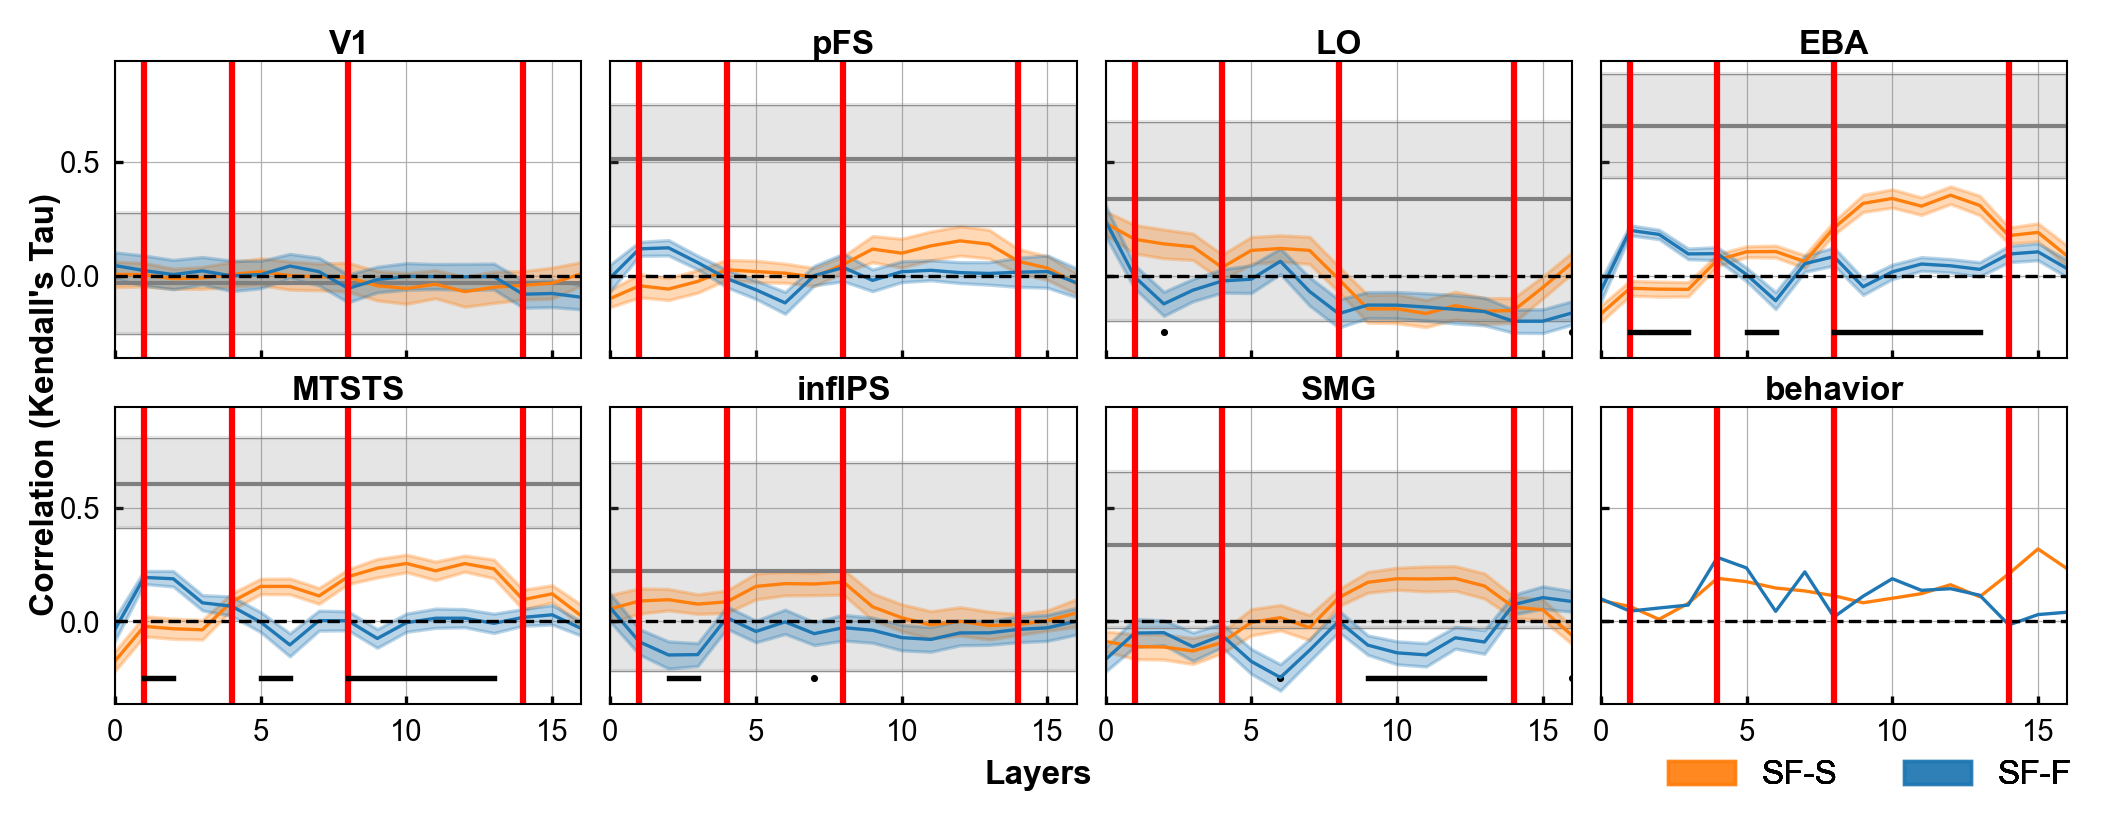
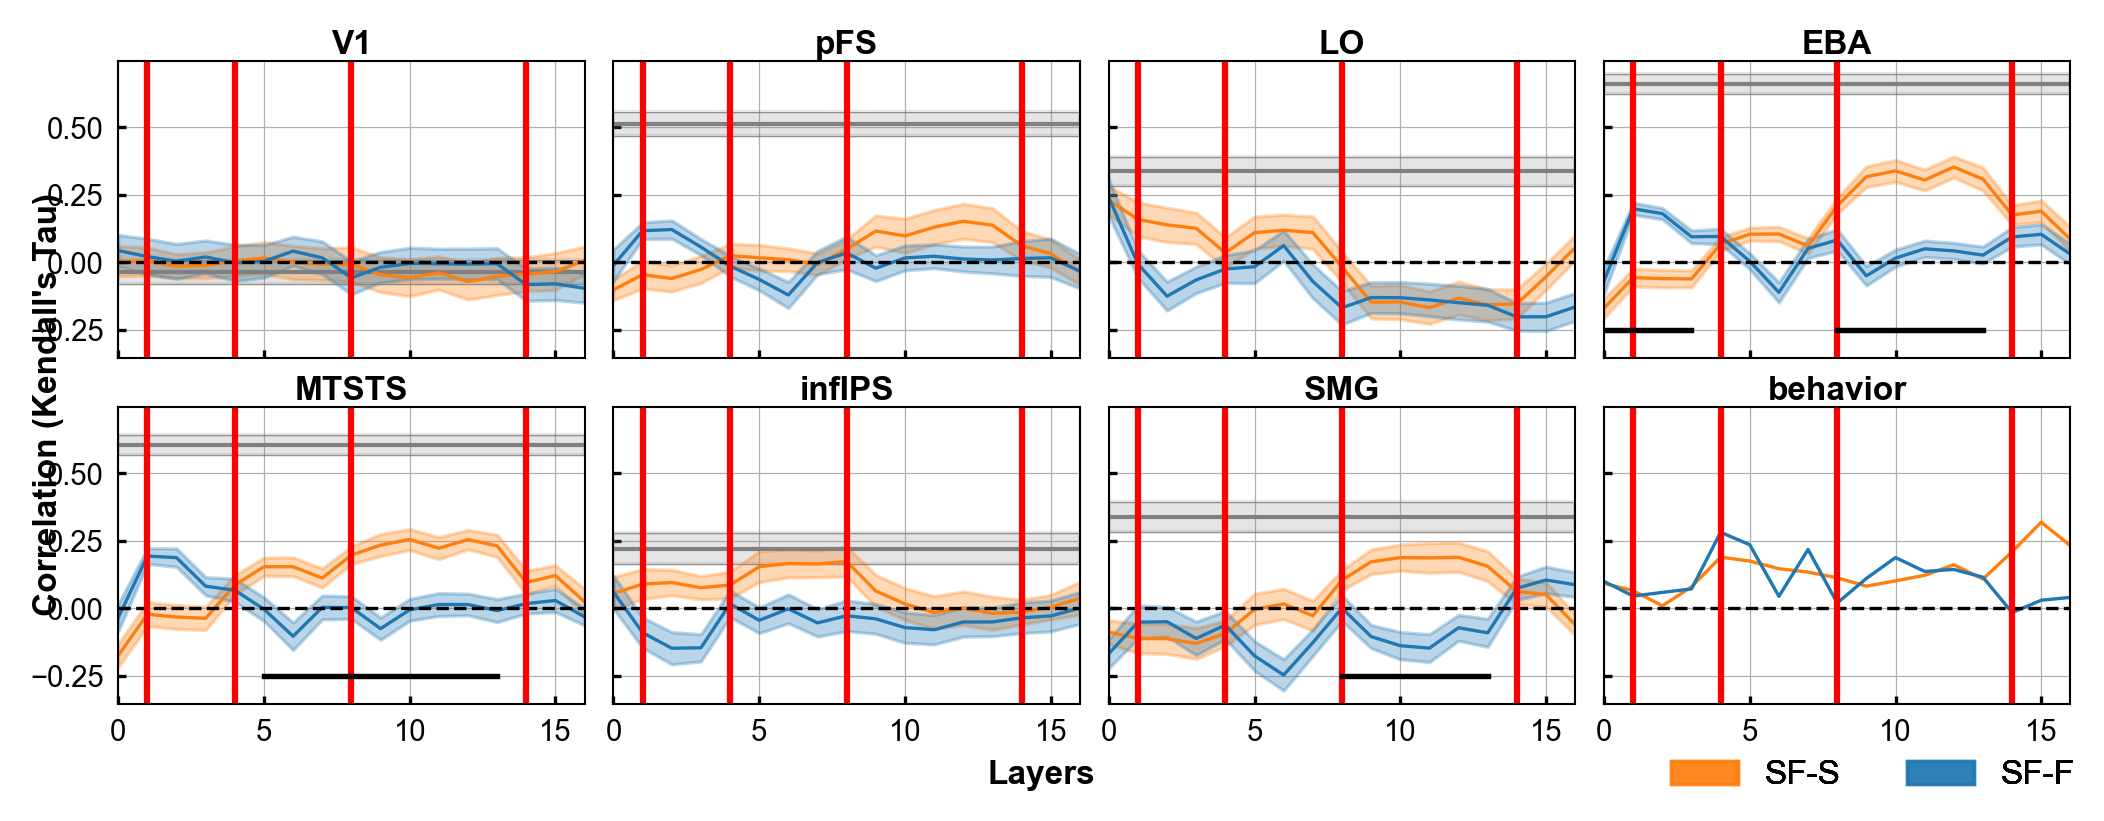
update nc and cluster permutation

diff --git a/plot_RSA_layers.py b/plot_RSA_layers.py
@@ -3,9 +3,9 @@ import pickle
 import numpy as np
 from scipy import stats
 import os
-from statsmodels.stats.multitest import multipletests
 import itertools
 from scipy.stats import kendalltau
+from mne.stats import permutation_cluster_test
 
 # Get the directory where the script is located
 script_dir = os.path.dirname(os.path.abspath(__file__))
@@ -15,34 +15,26 @@ os.chdir(script_dir)
 ROIList = ["V1", "pFS", "LO", "EBA", "MTSTS", "infIPS", "SMG", "behavior"]
 
 
-def bootstraping(data_A, data_B, num_samples=1000):
-    def my_statistic(sample1, sample2, axis=-1):
-        return np.mean(sample1, axis=axis) - np.mean(sample2, axis=axis)
+def bootstraping(data_A, data_B):
+    def my_statistic(data_A, data_B):
+        return np.mean(data_A, axis=0) - np.mean(data_B, axis=0)
 
-    p_values = []
-    for i in range(data_A.shape[1]):
-        observed_diff = my_statistic(data_A[:, i], data_B[:, i])
+    T_obs, clusters, cluster_p_values, _ = permutation_cluster_test(
+        [data_A, data_B],
+        n_permutations=1000,
+        tail=0,
+        stat_fun=my_statistic,
+        out_type="mask",
+        threshold=0.1,
+        verbose=False,
+    )
 
-        # Combine and create null distribution
-        combined = np.concatenate([data_A[:, i], data_B[:, i]])
-        null_distribution = []
+    significant = np.zeros(T_obs.shape, dtype=bool)
+    for i, p_value in enumerate(cluster_p_values):
+        if p_value < 0.05:
+            significant[clusters[i]] = True
 
-        for _ in range(num_samples):
-            np.random.shuffle(combined)
-            sample1 = combined[: len(data_A[:, i])]
-            sample2 = combined[len(data_A[:, i]) :]
-            null_distribution.append(my_statistic(sample1, sample2))
-
-        null_distribution = np.array(null_distribution)
-
-        # Compute two-tailed p-value
-        p_value = np.mean(np.abs(null_distribution) >= np.abs(observed_diff))
-        p_values.append(p_value)
-
-    # Apply FDR correction (Benjamini-Hochberg)
-    rejected, fdr_corrected_p, _, _ = multipletests(p_values, method="fdr_bh")
-
-    return p_values, fdr_corrected_p, rejected
+    return significant
 
 
 def load_rsa_data(region, model_name, data_path):
@@ -157,7 +149,7 @@ def compute_noise_ceiling(region):
         )
         correlations.append(correlation)
 
-    return ((np.min(correlations), np.max(correlations)), np.mean(correlations))
+    return np.mean(correlations), stats.sem(correlations)
 
 
 def main(color):
@@ -201,11 +193,11 @@ def main(color):
                     filtered_data = np.mean(filtered_data, axis=0)
 
                     if cond == condition[0]:
-                        (nc_low, nc_high), nc_avg = compute_noise_ceiling(region)
+                        nc_avg, nc_sem = compute_noise_ceiling(region)
                         ax.fill_between(
                             range(len(filtered_data)),
-                            nc_low,
-                            nc_high,
+                            nc_avg - nc_sem,
+                            nc_avg + nc_sem,
                             color="gray",
                             alpha=0.2,
                         )
@@ -217,13 +209,13 @@ def main(color):
                         )
                         ax.plot(
                             range(len(filtered_data)),
-                            np.ones((len(filtered_data))) * nc_high,
+                            np.ones((len(filtered_data))) * (nc_avg - nc_sem),
                             color="gray",
                             lw=0.2,
                         )
                         ax.plot(
                             range(len(filtered_data)),
-                            np.ones((len(filtered_data))) * nc_low,
+                            np.ones((len(filtered_data))) * (nc_avg + nc_sem),
                             color="gray",
                             lw=0.2,
                         )
@@ -259,9 +251,7 @@ def main(color):
                 combinations = list(itertools.combinations(range(len(condition)), 2))
                 sig = np.zeros((len(combinations), len(filtered_data)))
                 for count, ind in enumerate(combinations):
-                    _, _, sig[count, :] = bootstraping(
-                        ttest_data[ind[0]], ttest_data[ind[1]]
-                    )
+                    sig[count, :] = bootstraping(ttest_data[ind[0]], ttest_data[ind[1]])
                 plot_significance(ax, sig, count)
 
                 h, l = ax.get_legend_handles_labels()
@@ -299,11 +289,11 @@ if __name__ == "__main__":
 
     dataset = ["k400"]
 
-    condition = ["SF-S", "SF-F"]
-    color = ["tab:orange", "tab:blue"]
+    # condition = ["SF-S", "SF-F"]
+    # color = ["tab:orange", "tab:blue"]
 
-    # condition = ["SF-S-noF", "SF-S"]
-    # color = ["tab:green", "tab:orange"]
+    condition = ["SF-S-noF", "SF-S"]
+    color = ["tab:green", "tab:orange"]
 
     # condition = ["SF-S-noF", "S-only"]
     # color = ["tab:green", "tab:red"]

diff --git a/compute_RSA.py b/compute_RSA.py
@@ -66,9 +66,6 @@ def load_MRI(filepath, hemisphere):
     dynamic_tstat = np.mean(data[:6, :, :], axis=1)
     static_tstat = np.mean(data[6:, :, :], axis=1)
 
-    dynamic_tstat = data[:6, -1]
-    static_tstat = data[6:, -1]
-
     # swap rows to the desired form
     dynamic_tstat = dynamic_tstat[[5, 0, 1, 4, 2, 3], :]
 
